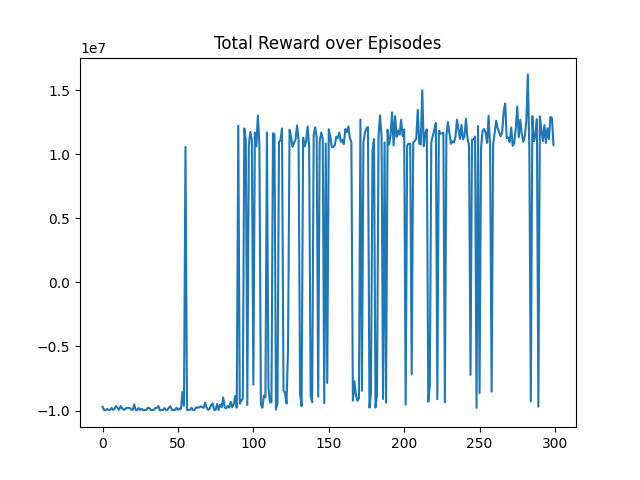
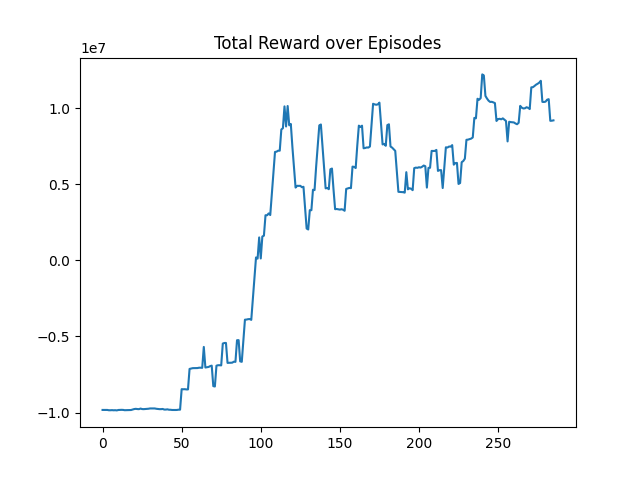
Update model weight

diff --git a/ball_world_game_starter/DQN_test.py b/ball_world_game_starter/DQN_test.py
@@ -19,8 +19,6 @@ def test(env):
         render = True
         done = False
         while not done:
-            # if render:
-            #     env.render()
             predicted = model.predict(observation.reshape(1, -1)).reshape(-1)
             action = np.argmax(predicted)
             new_observation, reward, done, info = env.step(action)
@@ -36,6 +34,6 @@ def test(env):
 
 
 if __name__ == '__main__':
-    env = gym.make('ball_world_game/env_main-v0', render_mode=args.mode, num_of_obs=args.num_of_obs,
+    env = gym.make('ball_world_game/env_main-v0', render_mode='train', num_of_obs=args.num_of_obs,
                    num_of_br=args.num_of_br, num_of_acc=args.num_of_acc, ball_initial_speed=args.ball_initial_speed)
     test(env)

diff --git a/ball_world_game_starter/DQN_train.py b/ball_world_game_starter/DQN_train.py
@@ -130,7 +130,9 @@ def main(env):
     # plot graphs
     fig1 = plt.figure()
     ax1 = fig1.add_subplot(1, 1, 1)
-    ax1.plot(episode_list, reward_list)
+    window_size = 15
+    reward_sma = [sum(reward_list[i:i+window_size]) / window_size for i in range(0, len(reward_list)-window_size+1)]
+    ax1.plot(np.arange(len(reward_sma)), reward_sma)
     ax1.set_title('Total Reward over Episodes')
 
     fig1.savefig('./experimental results/Reward_Graph.png')
